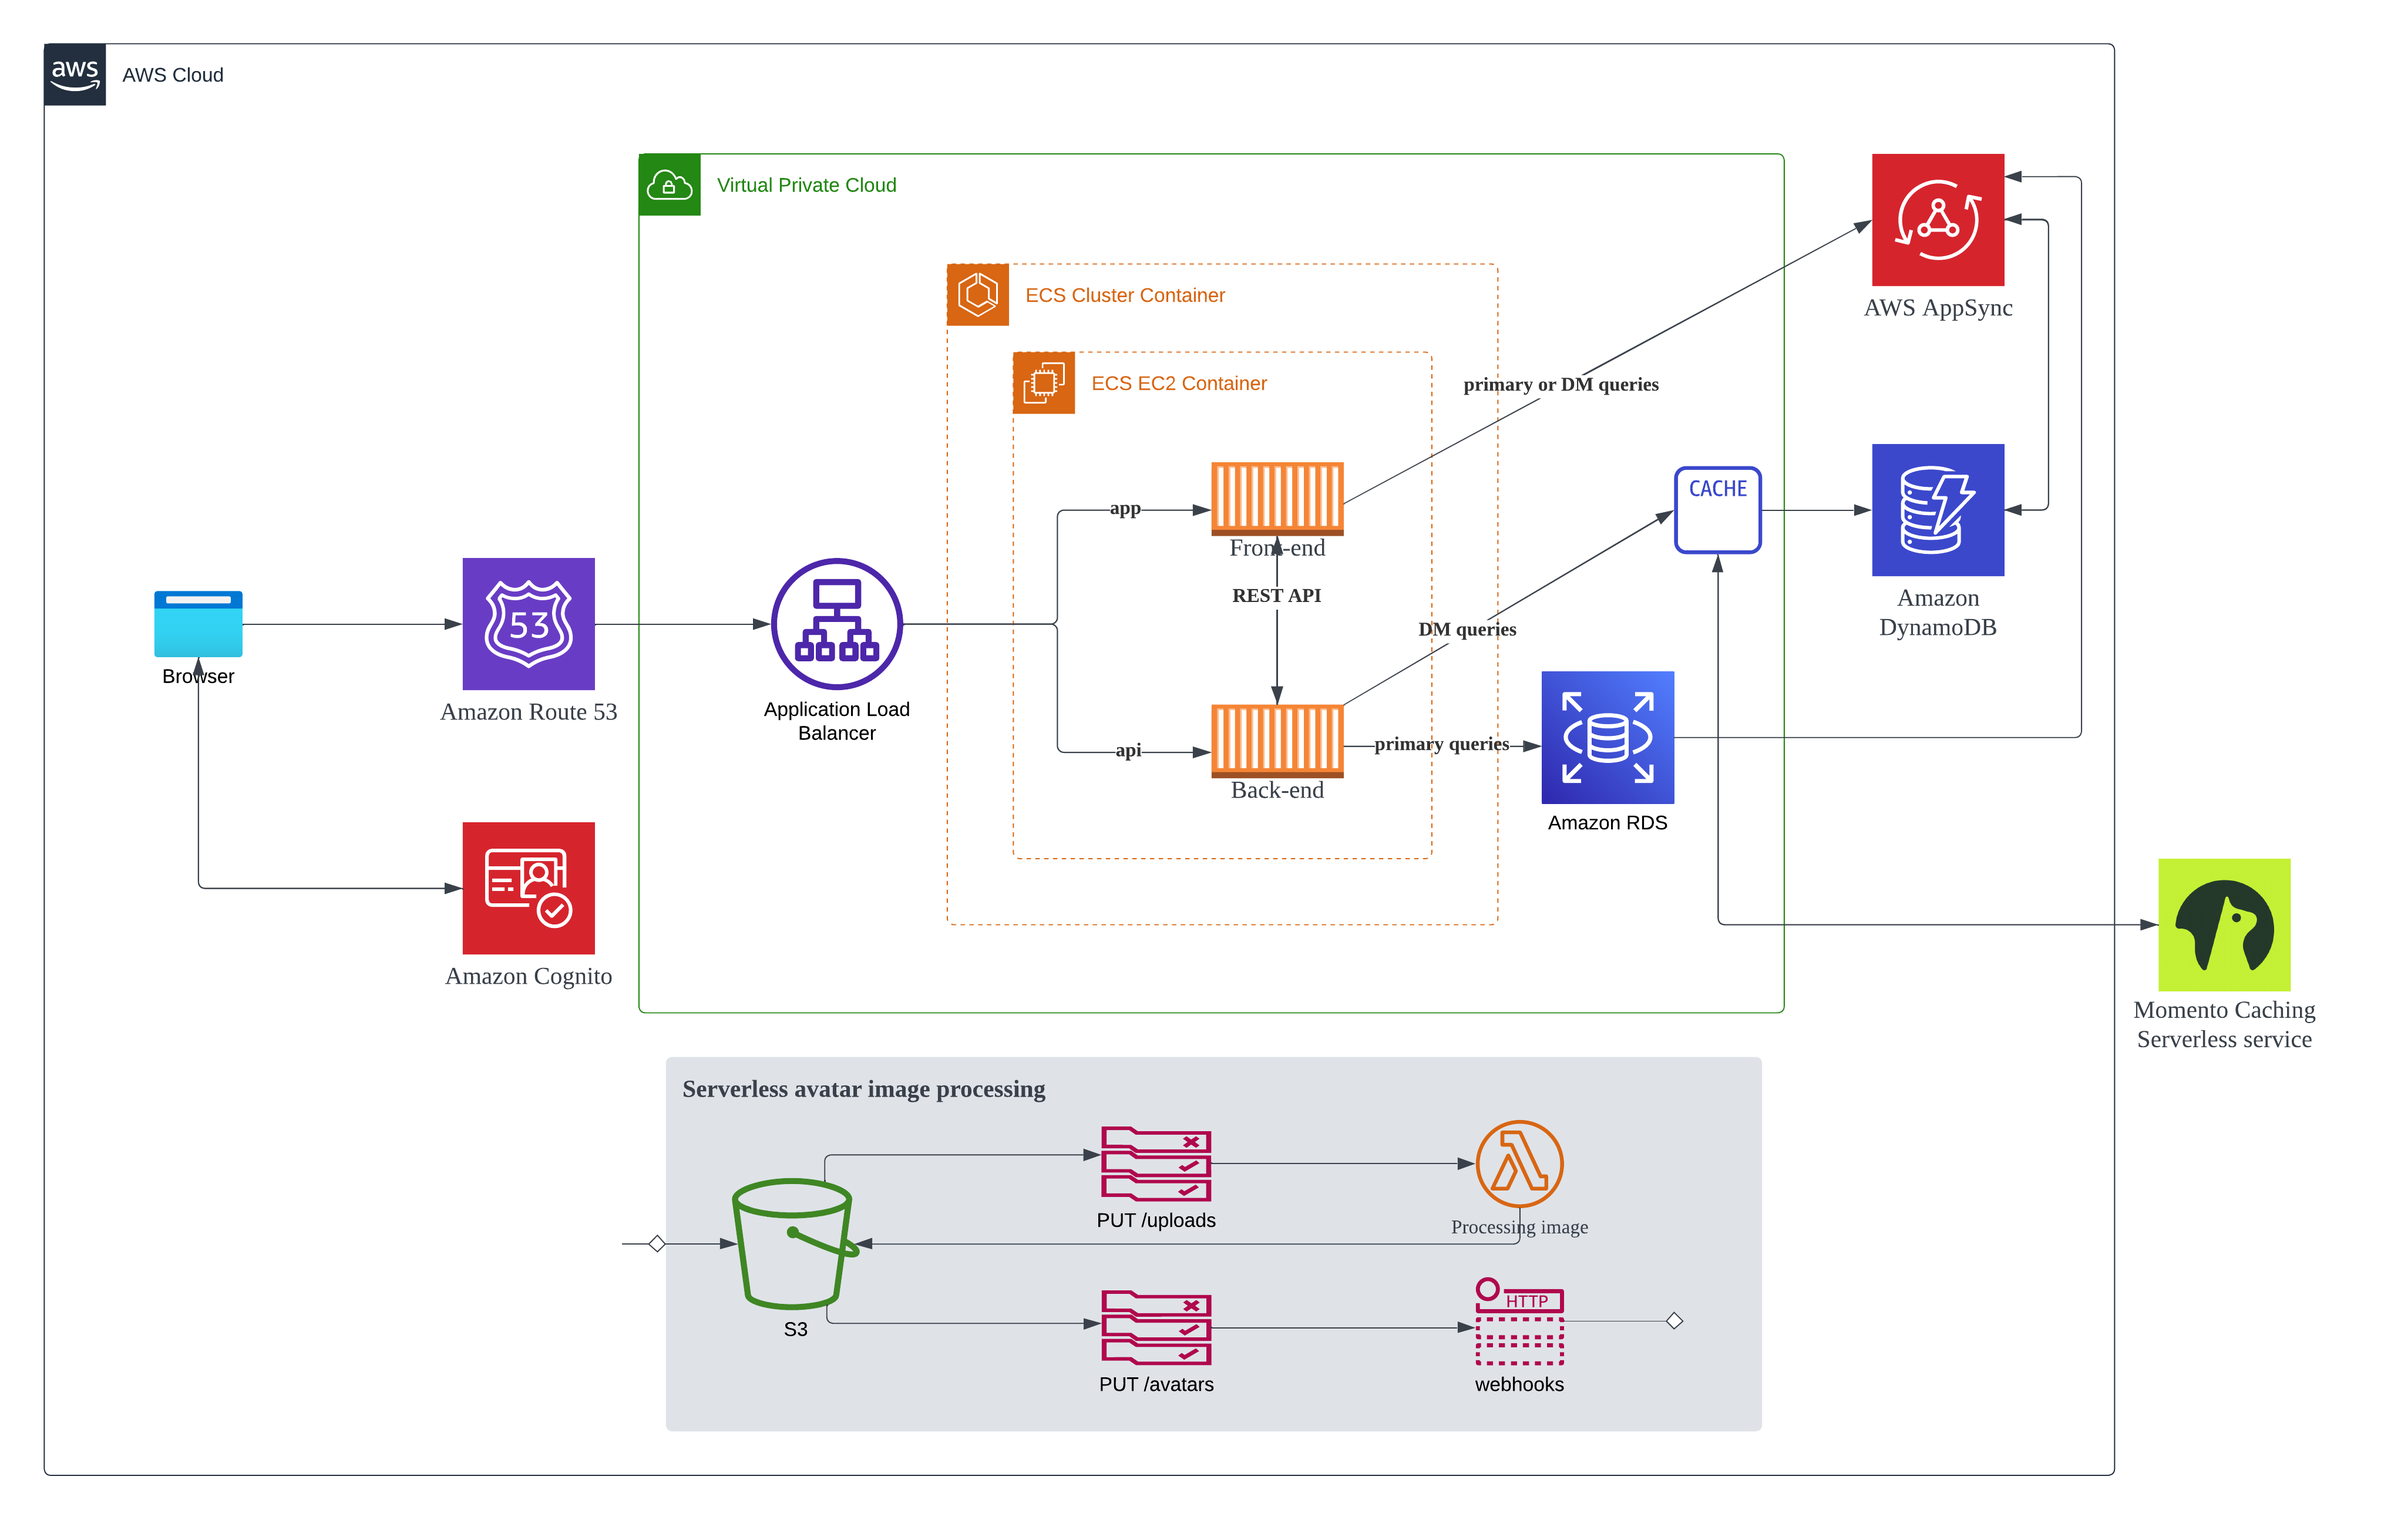
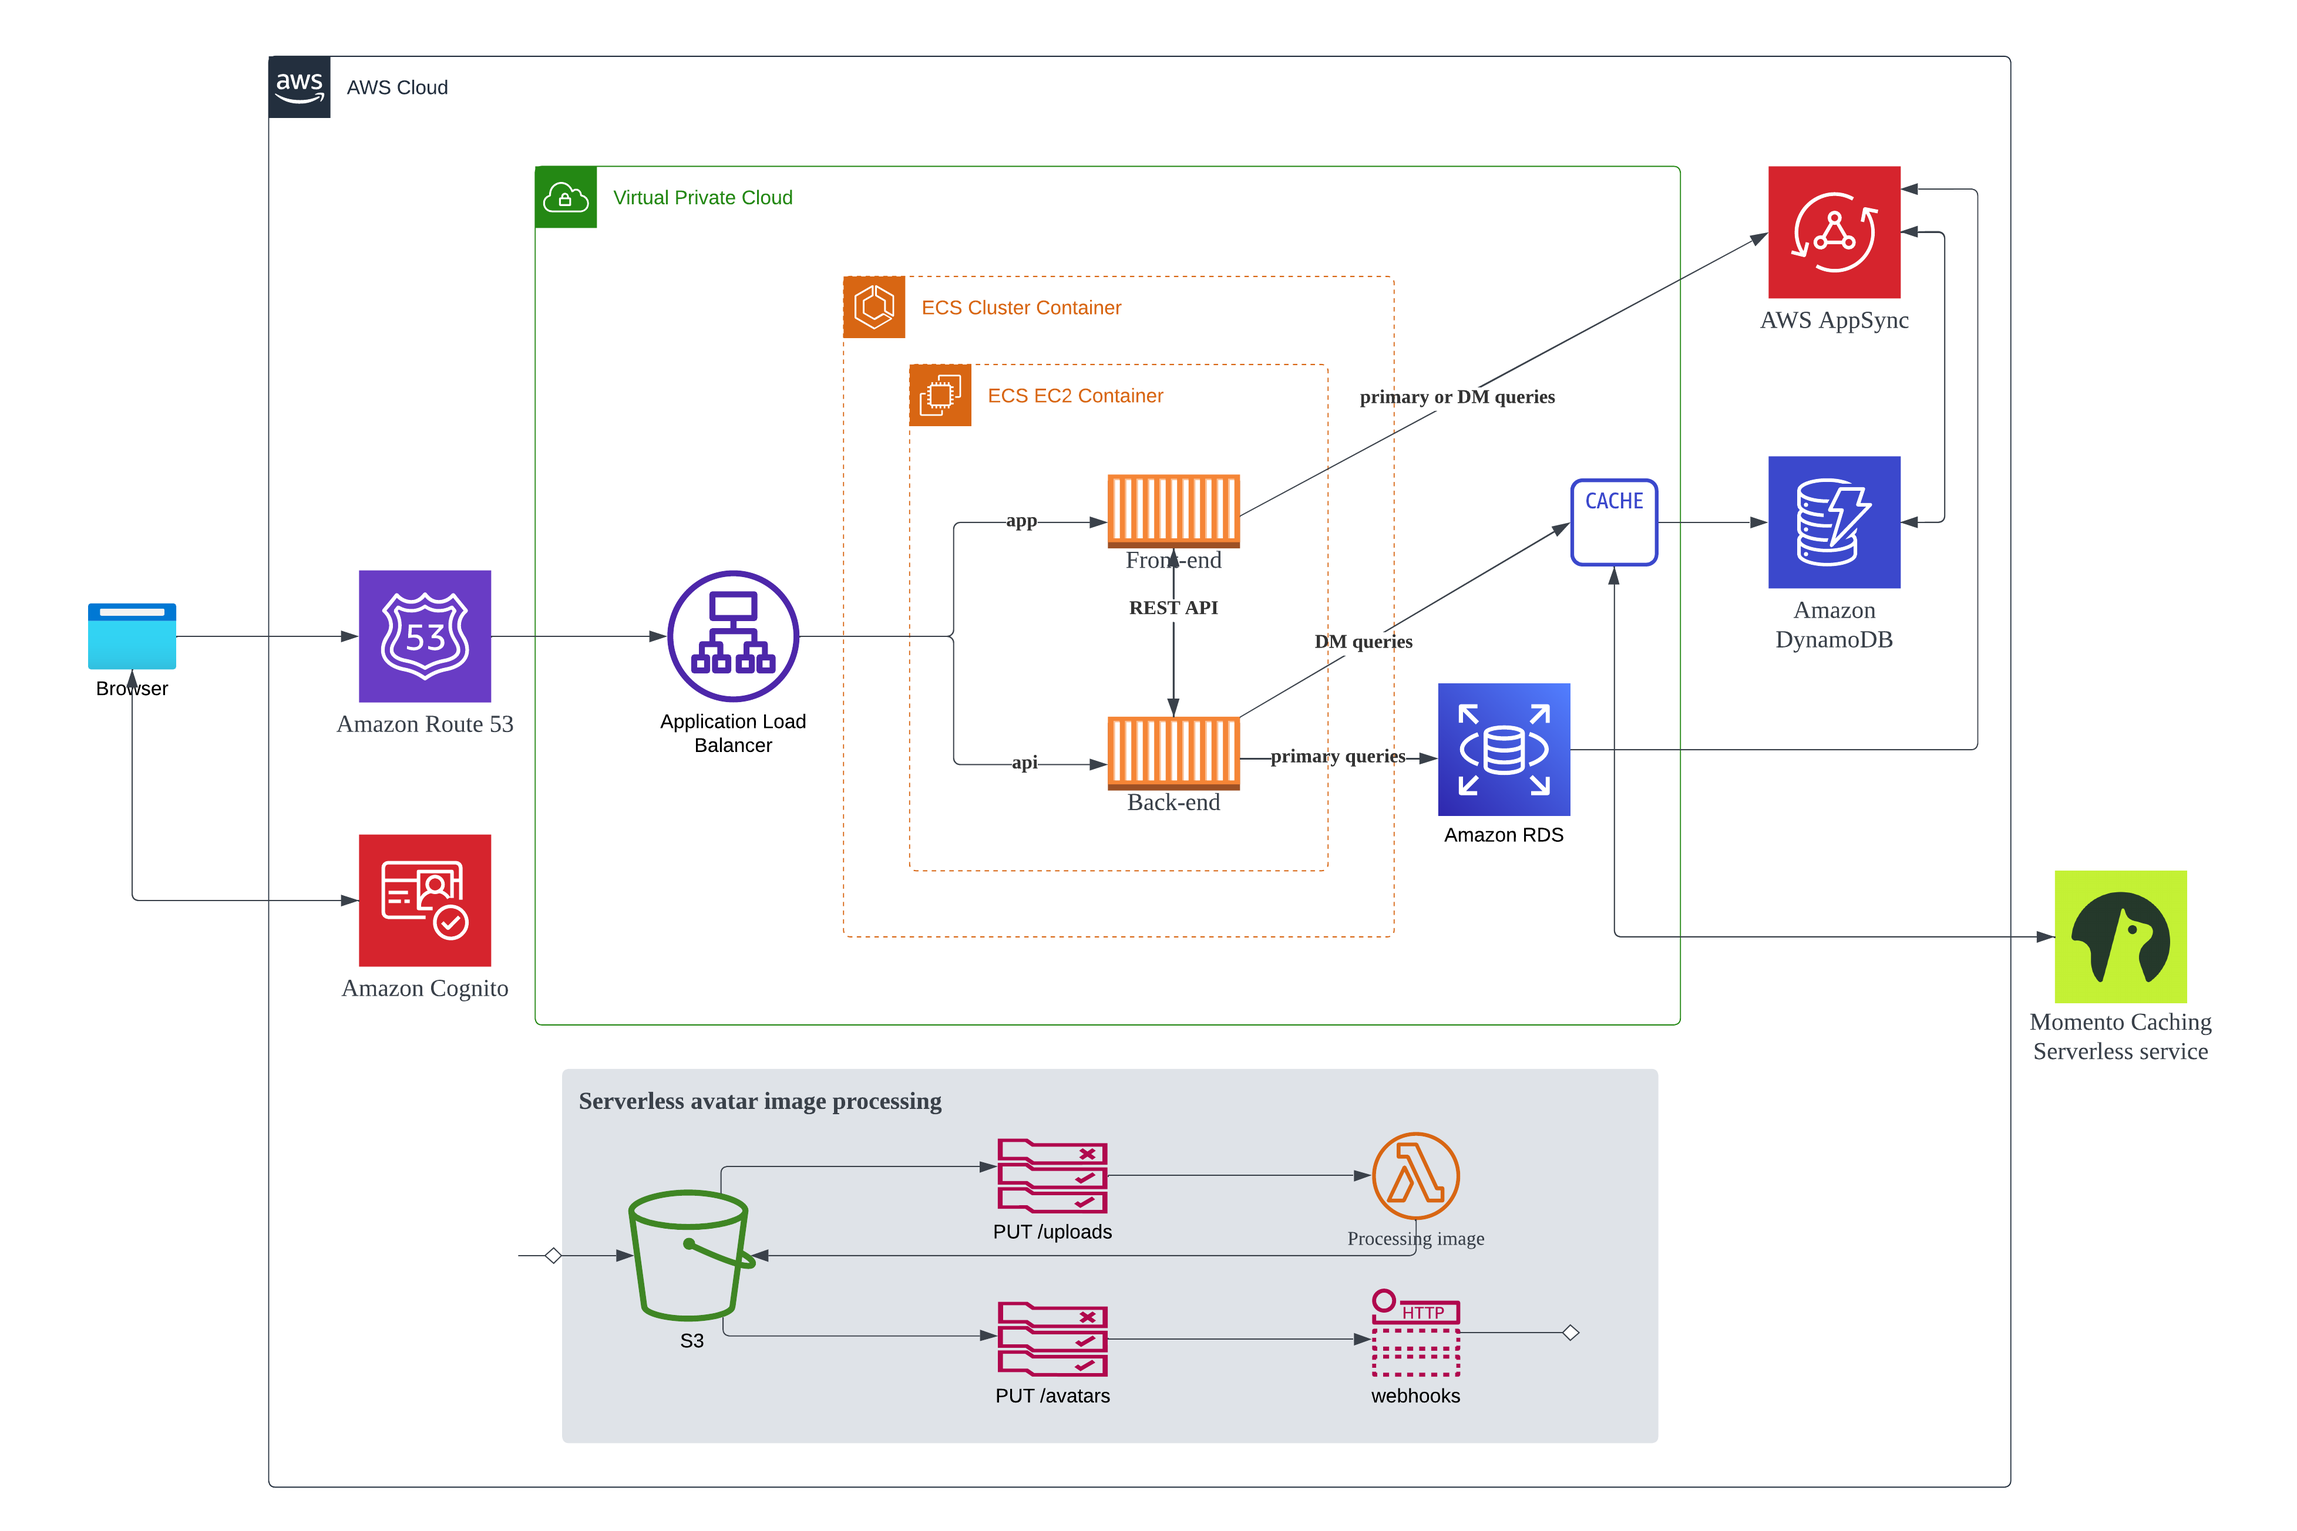
week0: fix typo & the diagram

diff --git a/journal/week0.md b/journal/week0.md
@@ -20,7 +20,7 @@ Follow Ashish's video, you can setup some best practices below:
 
 ### 2. Recreate Logical Architectual Diagram in Lucid Charts
 
-In this bootcamp, we will implement this architecture
+In this bootcamp, we will implement this architecture. I re-create it using LucidChart.
   - ![Logical Architectual Diagram](/journal/Week%200%20—%20Billing%20and%20Architecture/Week%200%20—%20Billing%20and%20Architecture.png)
 
 ### 3. Create Admin user
@@ -92,7 +92,7 @@ Default output format [None]: json
 ![](img/week0_20230215063944.png)
 - Create 1 custom budget for experimence
   - Choose [Customize] > [Usage budget]
-  - Choost Create alert when using > 80% of the threshold
+  - Choose Create alert when using > 80% of the threshold
   - Ex: you set the usage budget is 2000 Hours for EC2 service, then 80% mean 1600 Hours
 ![](img/week0_20230215064936.png)
 
